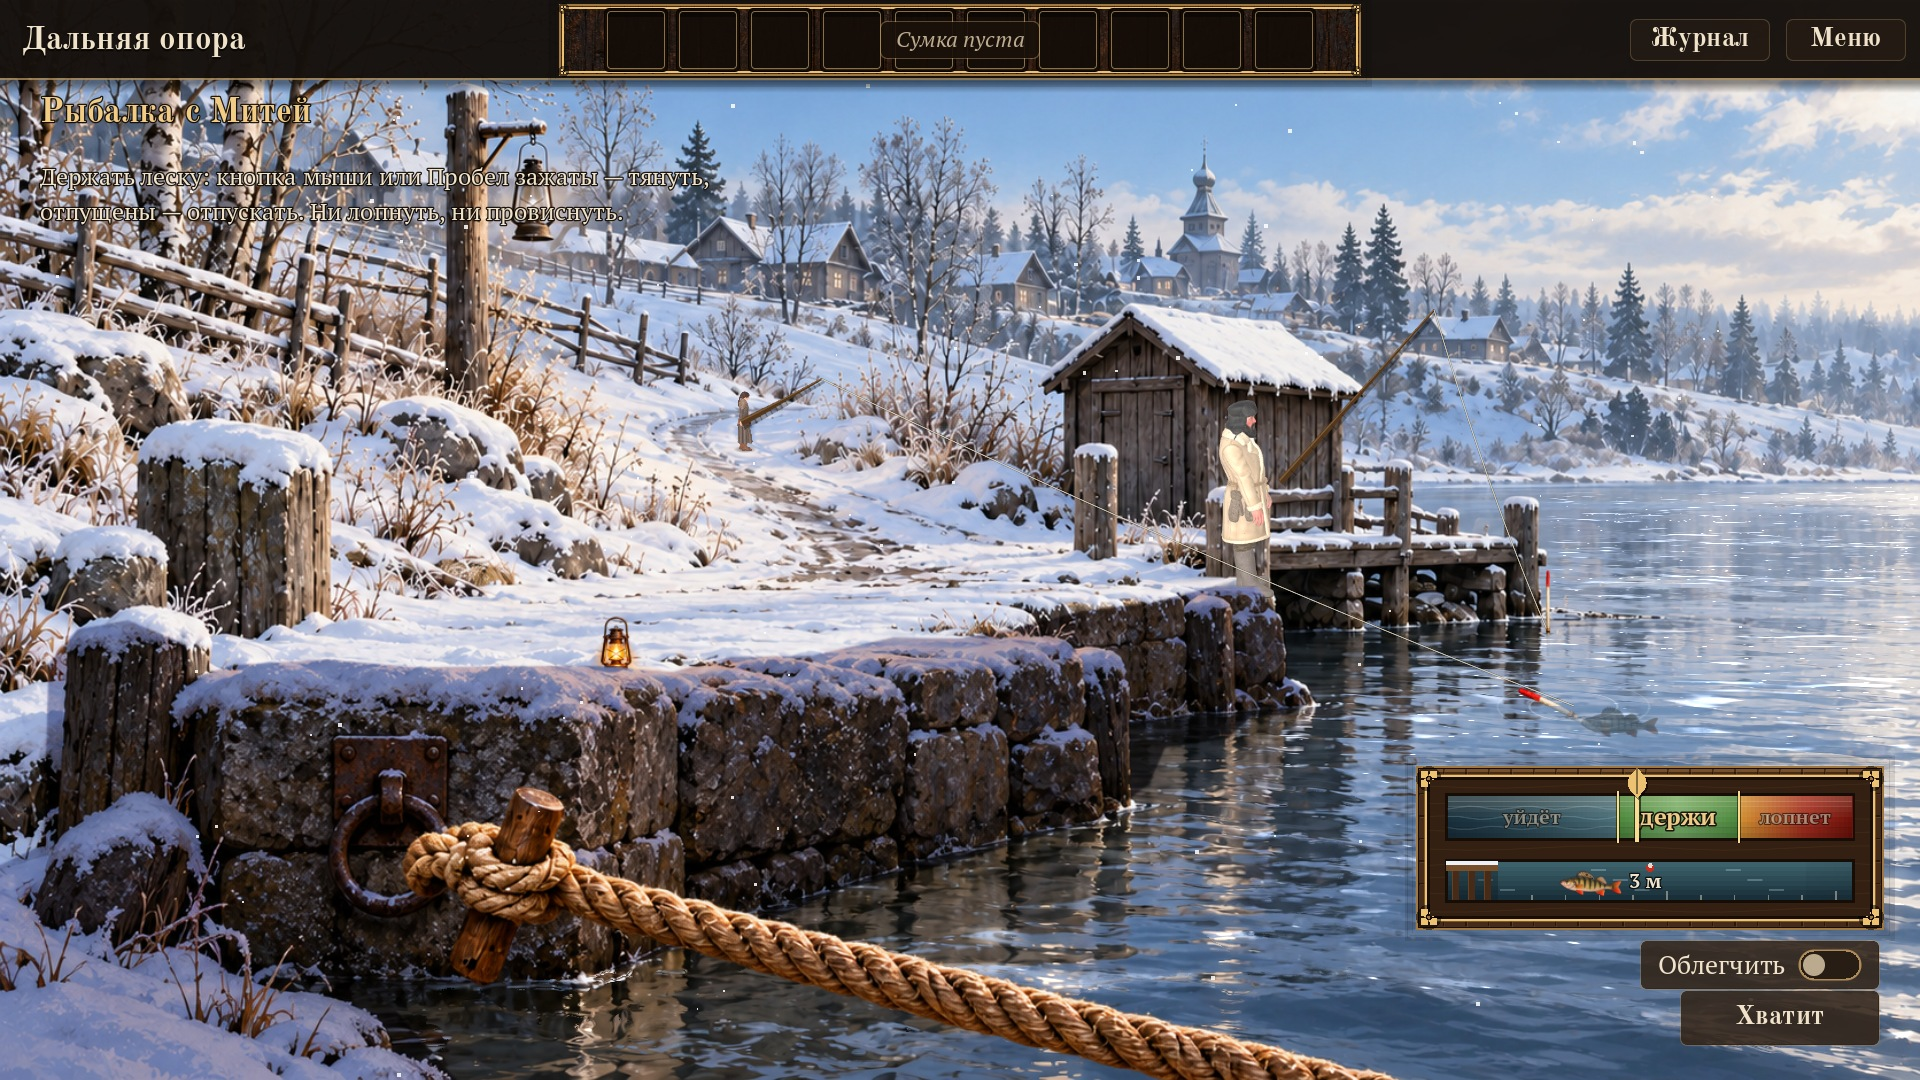
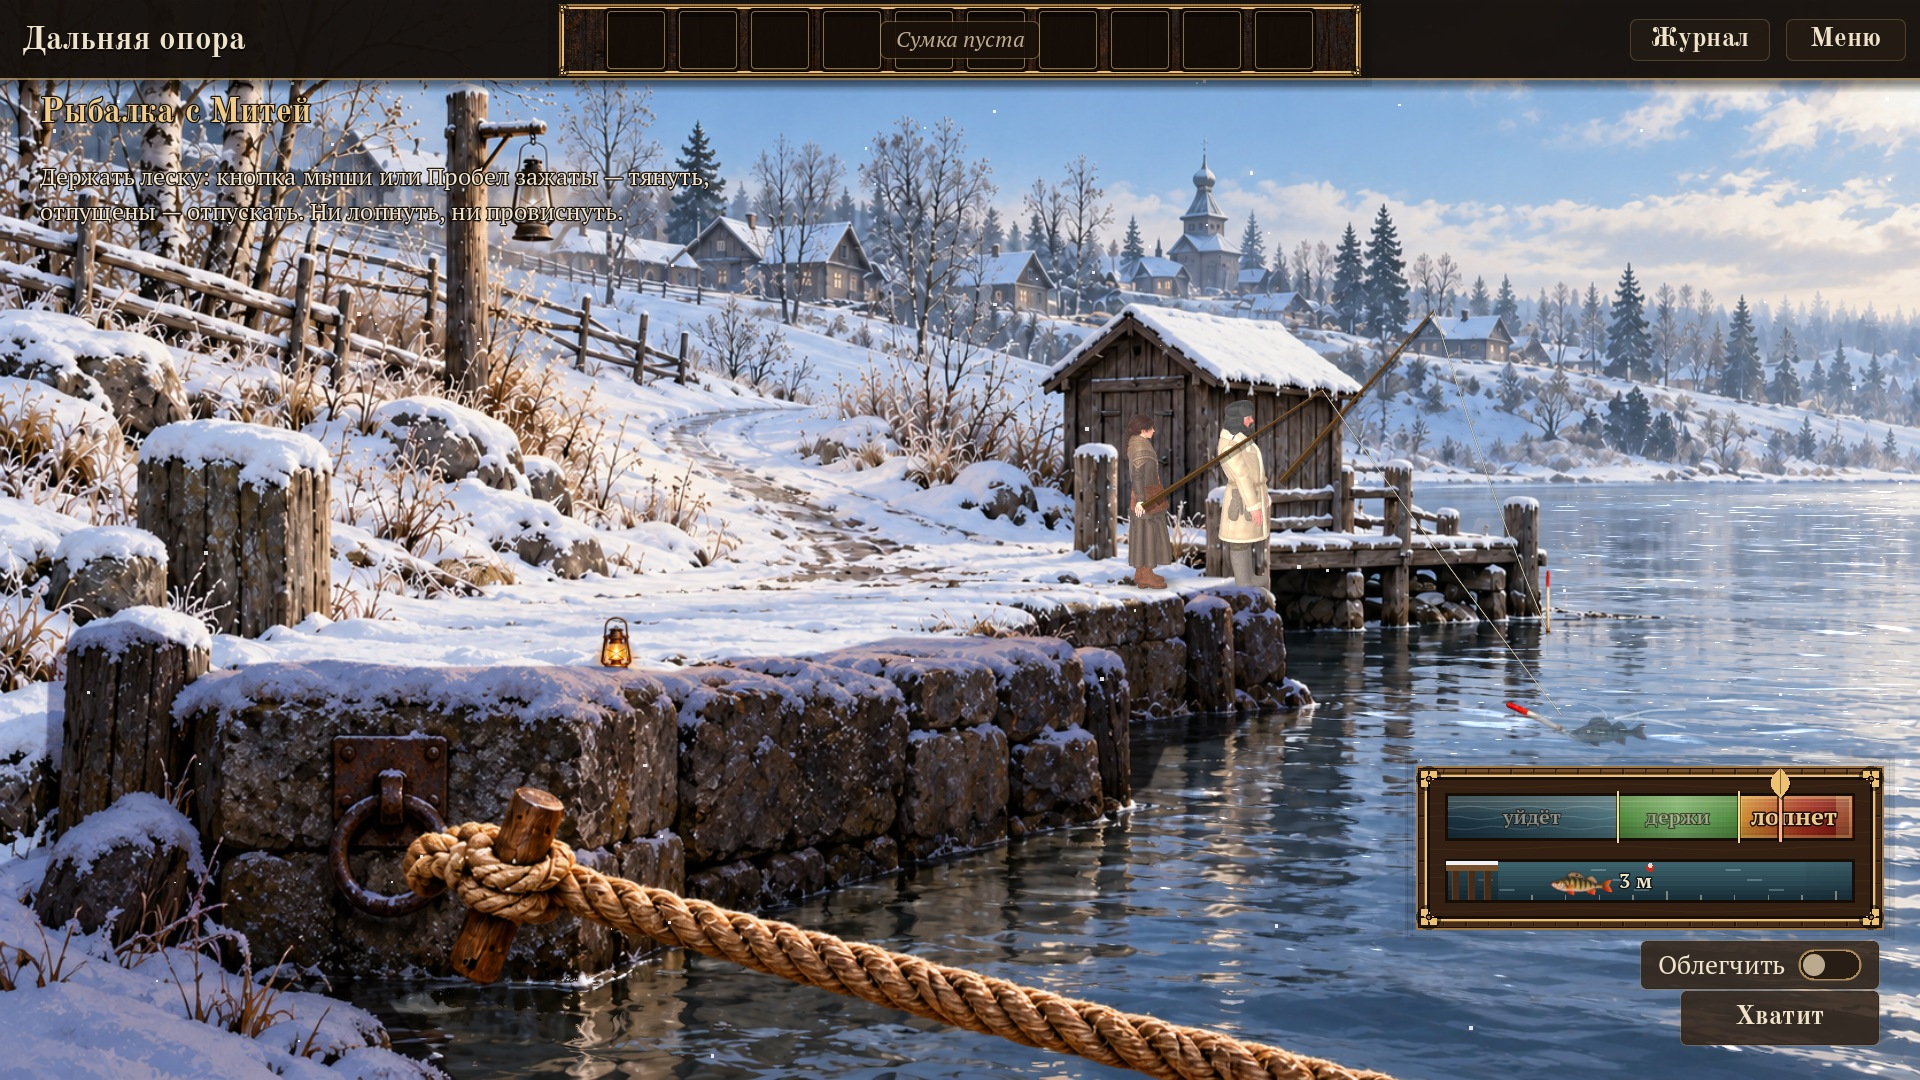
Скриншоты Steam: выбор Директора 15.11 (2, 6, 12, 14, 15, 18, 21); № 21 переснят — Агата у Мити [skip ci]
Директор 15.11, 13:58: «только 21 проблемный». shots_quests.gd: перед игрой из разговора Агата ставится на место
разговора (как в игре). CHOSEN.md, лист _vybor_1511.jpg.

Claude-Session: https://claude.ai/code/session_01Qvdjz1zmfr41cRSvLxvjeK

diff --git a/Docs/DECISIONS.md b/Docs/DECISIONS.md
@@ -199,6 +199,7 @@
 - 2026-11-14 · **Днём переправа — дневной картиной** (найдено при съёмке повторной переправы из игры). Лодка Пелагеи ходит с третьего дня (`boat_shuttle_open` даёт M22), то есть почти всегда днём, а механика переправы знала одну картину — вечернюю: солнечный день → сумерки в лодке → солнечный день; так было с 24.10, за три секунды в тумане не замечалось. Моё «вид один, вечерний, второй ролик для дня не нужен» (21:10) было неверным — поправил Директору в 21:57. Теперь у повторных переправ есть дневной вид (`day` в данных механики, условие — как у слоя `day` комнаты R2): картина `R2/day.png`, дальняя опора — `R3/day.png`, туман редкий (он сошёл — 01.11-44), ролика нет — рисованная переправа с живой водой. Вечерний ролик остаётся на вечере третьего дня. Дневной ролик fal — запрос готов (`pipeline/requests/video_crossing_day_1.json`, $1,12), **не запущен: жду «да» Директора**. Тест `test_crossing_film` CF-6 (день — дневная картина, без ролика; самопроверка — вечером вечерняя). · Claude Code.
 - 2026-11-15 · **Дневная переправа — тоже живая** (Директор 12:52: «дневной ролик можешь заказывать да»). Запрос `pipeline/requests/video_crossing_day_1.json` запущен (43711188165, $1,12); взят дубль 2 — у дубля 1 канат смазывается в полосу. `game/assets/closeups/crossing_live_day.ogv` в `day.film` четырёх повторных переправ: днём — дневной ролик, вечером третьего дня — вечерний. `validate_films.py` проверяет и дневные (8 роликов: начало совпадает с картиной, длины хватает); `test_crossing_film` CF-6 — днём дневной ролик, вечером вечерний. Снято из игры: `Docs/evidence/feedback_1411/pereprava_v_igre_den.mp4`. · Директор / Claude Code.
 - 2026-11-15 · **Ролик: Агата спрашивает Тихона, у говорящих двигаются губы** (Директор 12:51: «ролик вроде норм, только какую-то фразу Агаты бы вставить, можно ту же сцену чуть расширить с Тихоном, добавить её „Ой, а ты кто тут“ или что она там говорит. У Нины на видео нет движений мимики, в игре её тоже мы не доделали?»). Кадр избы 5,2 → 7,0 с: «Ой!.. А ты кто такой будешь?» (M03, строка 1) — «И печь тут, вестимо» (строка 2), рука наводит на «вестимо». Губ в ролике не было ни у кого: голоса клались в монтаже, а в кадре фигуры молчали. Новое событие ролика `speak` (`trailer.gd`) показывает реплику в окне и ведёт губы говорящего по буквам записи — тем же путём, что в игре (JawModifier у Агаты и жителей, рот куклы у Тихона: `puppet_actor.gd speaking_override`), по часам ролика; монтаж (`trailer_assemble.py`) кладёт запись по тому же событию. Нина в классе — тоже `speak`, без окна. В игре губы по звукам у всех десяти фигур с 12.11 (принято по видео «было / стало»); движения подбородка и щёк, бровей, моргания нет — не заказывались. Ролик 51,8 → 53,6 с. · Директор / Claude Code.
+- 2026-11-15 · **Скриншоты Steam — новый выбор: 2, 6, 12, 14, 15, 18, 21** (Директор 13:58: «6 2 12 14 15 18 и 21 изменить (нет Агаты тупо на скрине)», «цифры — это по скринам»; на уточнение: «только 21 проблемный, на остальных её быть и не должно»). № 21 (рыбалка) переснят: съёмка открывала рыбалку у двери комнаты, не подведя Агату к Мите, и её в кадре не было; в игре рыбалку предлагают в разговоре — Агата стоит у Мити. `game/tests/shots_quests.gd`: перед игрой из разговора Агата ставится на место разговора. № 18 (карта) совпадает с кадром ролика 0:35–0:38 (13.11 Директор просил скриншоты не из видео) — сказано Директору. `Docs/evidence/steam_screens_1311/CHOSEN.md`, лист `_vybor_1511.jpg`. · Директор.
 
 ## Ожидают решения Директора
 

diff --git a/Docs/CURRENT_STATE.md b/Docs/CURRENT_STATE.md
@@ -1,7 +1,8 @@
 # Current state — 15.11, 13:40: ролик — фраза Агаты в избе и губы у говорящих; дневная переправа живая; рендер и полный прогон запускаются (Opus 5.5)
 - **В новой копии репозитория первым делом: `git config core.hooksPath tools/hooks`** (хук не пускает в main коммит без «[skip ci]»).
 - **Директор 15.11:** 12:51 «ролик вроде норм, только какую-то фразу Агаты бы вставить, можно ту же сцену чуть расширить с Тихоном… у Нины на видео нет движений мимики, в игре её тоже мы не доделали?»; 12:52 «и какое качество ролика в целом»; «дневной ролик можешь заказывать да»; «по скринам — дай архивом всё, что есть у нас сейчас и что рассматриваются».
-- **Скриншоты — отправлены архивом** `skrinshoty_steam_1511.zip` (21 кадр: 6 одобренных, № 13 и замены 11, 10, остальные 12; пояснение внутри: № 13 — старая надпись зеркала, переснять после сборки).
+- **Скриншоты — новый выбор Директора 13:58: 2, 6, 12, 14, 15, 18, 21**; № 21 переснят с Агатой у Мити (`shots_quests.gd`), архив и лист отправлены 14:15 (`CHOSEN.md`, `_vybor_1511.jpg`); № 18 повторяет кадр карты из ролика — сказано Директору.
+- **Скриншоты (раньше) — отправлены архивом** `skrinshoty_steam_1511.zip` (21 кадр: 6 одобренных, № 13 и замены 11, 10, остальные 12; пояснение внутри: № 13 — старая надпись зеркала, переснять после сборки).
 - **Дневная переправа — живая:** fal 43711188165 ($1,12, «да» 12:52), дубль 2 (у дубля 1 канат смазан) → `game/assets/closeups/crossing_live_day.ogv`, `day.film` в четырёх переправах; `validate_films.py` — 8 роликов OK; `test_crossing_film` 5/5 под Xvfb (CF-6: днём дневной ролик, вечером вечерний). Снято из игры: `Docs/evidence/feedback_1411/pereprava_v_igre_den.mp4`.
 - **Ролик:** кадр избы 7,0 с — Агата: «Ой!.. А ты кто такой будешь?», Тихон: «И печь тут, вестимо» + подсказка «конечно». Новое событие `speak` (`trailer.gd`): реплика в окне + губы говорящего по буквам записи (JawModifier / рот куклы `puppet_actor.gd speaking_override`), монтаж кладёт голос по нему же (`trailer_assemble.py`); у Нины в классе губы теперь двигаются. Ролик 53,6 с. Пробные кадры избы просмотрены (`scratchpad/tr1411/t_tikhon2.jpg`), губы проверены пробой под Xvfb. Тесты: `test_trailer` 3/3 (у каждого `speak` есть запись и фигура), новый `test_trailer_speak` под Xvfb 2/2 (губы открываются и закрываются по буквам, после реплики закрыты; самопроверка — реплика только в окне, как до 15.11, рот закрыт), 143 с.
 - **В игре губы по звукам** у всех десяти фигур с 12.11 (принято по видео); подбородка, щёк, бровей, моргания нет — не заказывались.

diff --git a/Docs/evidence/steam_screens_1311/CHOSEN.md b/Docs/evidence/steam_screens_1311/CHOSEN.md
@@ -1,3 +1,22 @@
+# Скриншоты Steam — выбор Директора 15.11, 13:58 (заменяет выбор 13.11)
+
+«6 2 12 14 15 18 и 21 изменить (нет Агаты тупо на скрине)», «цифры — это по скринам»; на уточнение: «только 21
+проблемный, на остальных её быть и не должно» (12, 18 — крупные планы фотографии и карты, Агаты там нет и в игре).
+
+| № | Файл | Что |
+|---|---|---|
+| 2 | `02_office_pavel.jpg` | Контора мельницы, Павел |
+| 6 | `06_far_pier_mitya.jpg` | Дальняя опора, Митя |
+| 12 | `12_photo_bridge.jpg` | Фотография старого моста |
+| 14 | `14_workshop.jpg` | Мастерская |
+| 15 | `15_nina_room.jpg` | Горница Нины |
+| 18 | `18_village_map.jpg` | Карта Ольховки — **совпадает с кадром ролика 0:35–0:38** (Директор 13.11: скриншоты не те же, что в видео) — сказано Директору |
+| 21 | `21_fishing.jpg` | Рыбалка с Митей — **переснят 15.11**: в кадре 13.11 Агаты не было (съёмка открывала рыбалку, не подведя Агату к Мите; в игре рыбалку предлагают в разговоре — Агата стоит у Мити). `game/tests/shots_quests.gd`: перед игрой из разговора Агата ставится на место разговора |
+
+Лист: `_vybor_1511.jpg`. Все 1920×1080.
+
+---
+
 # Скриншоты Steam — выбор Директора 13.11, 22:51
 
 «3 4 6 7 12 13 14 скрины»:
